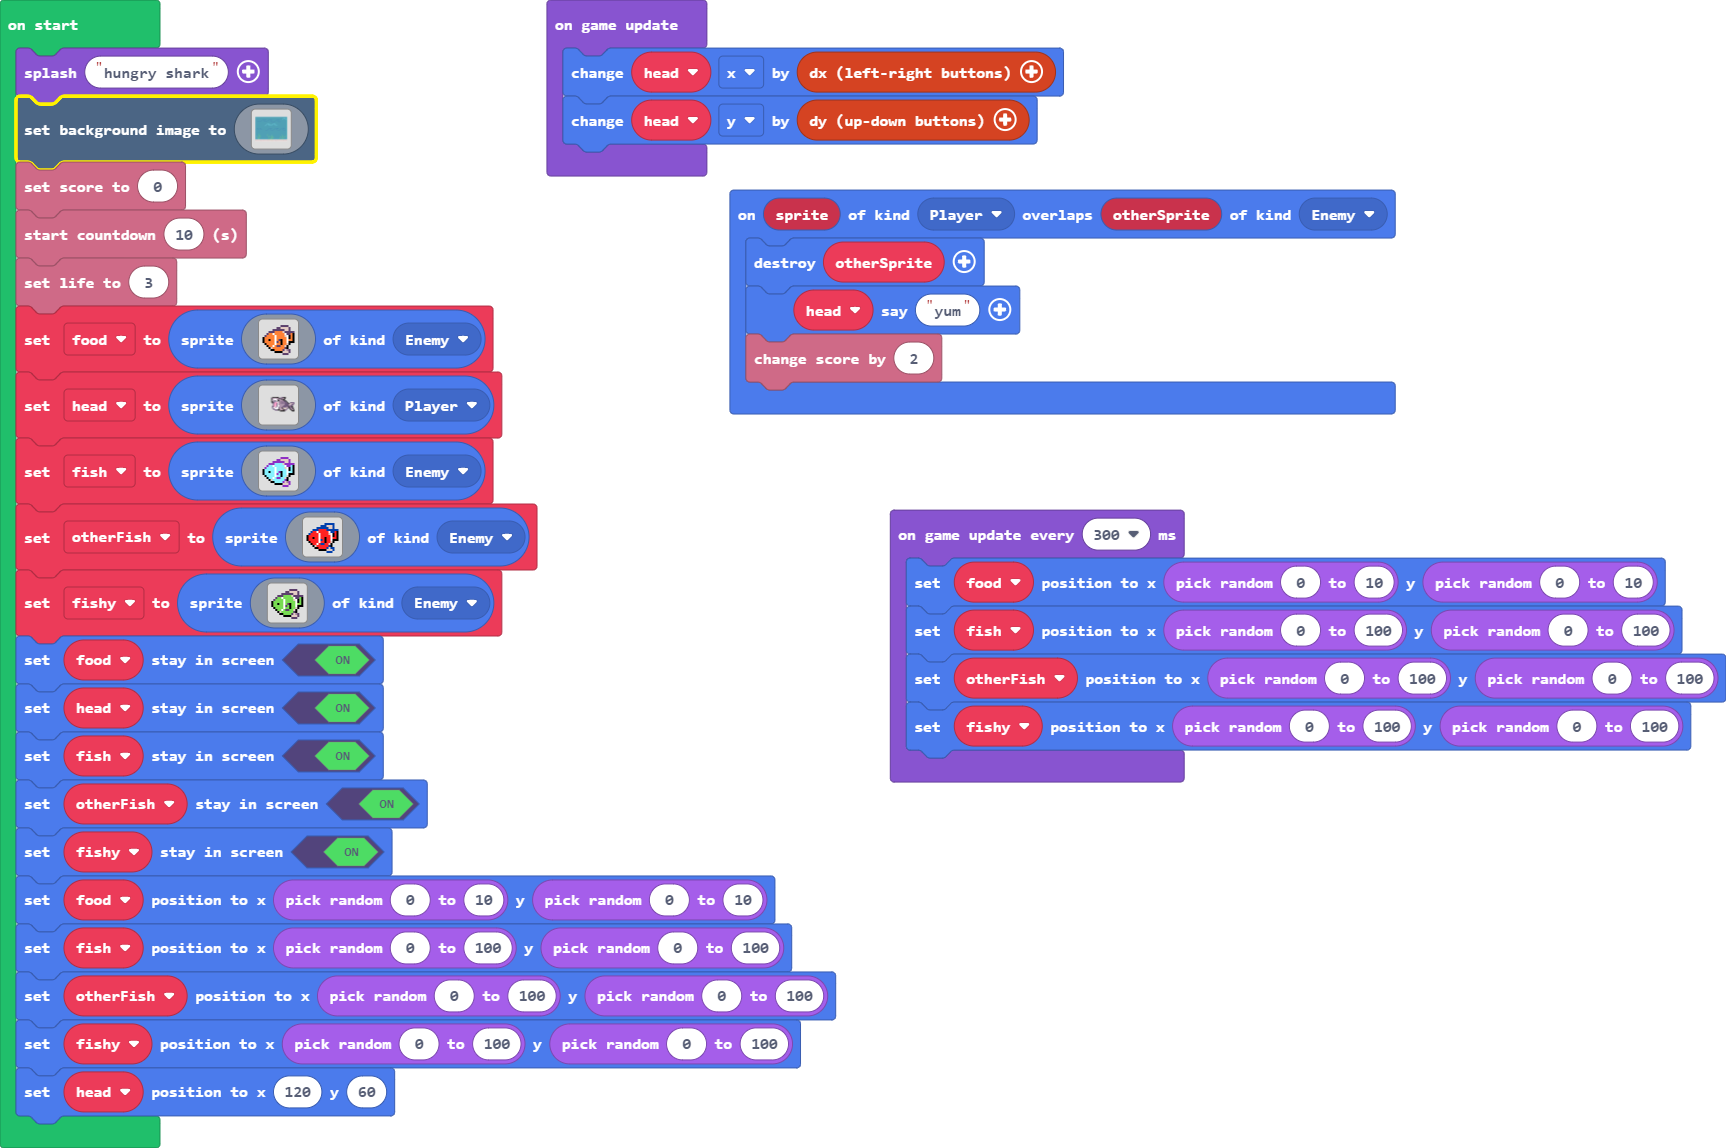
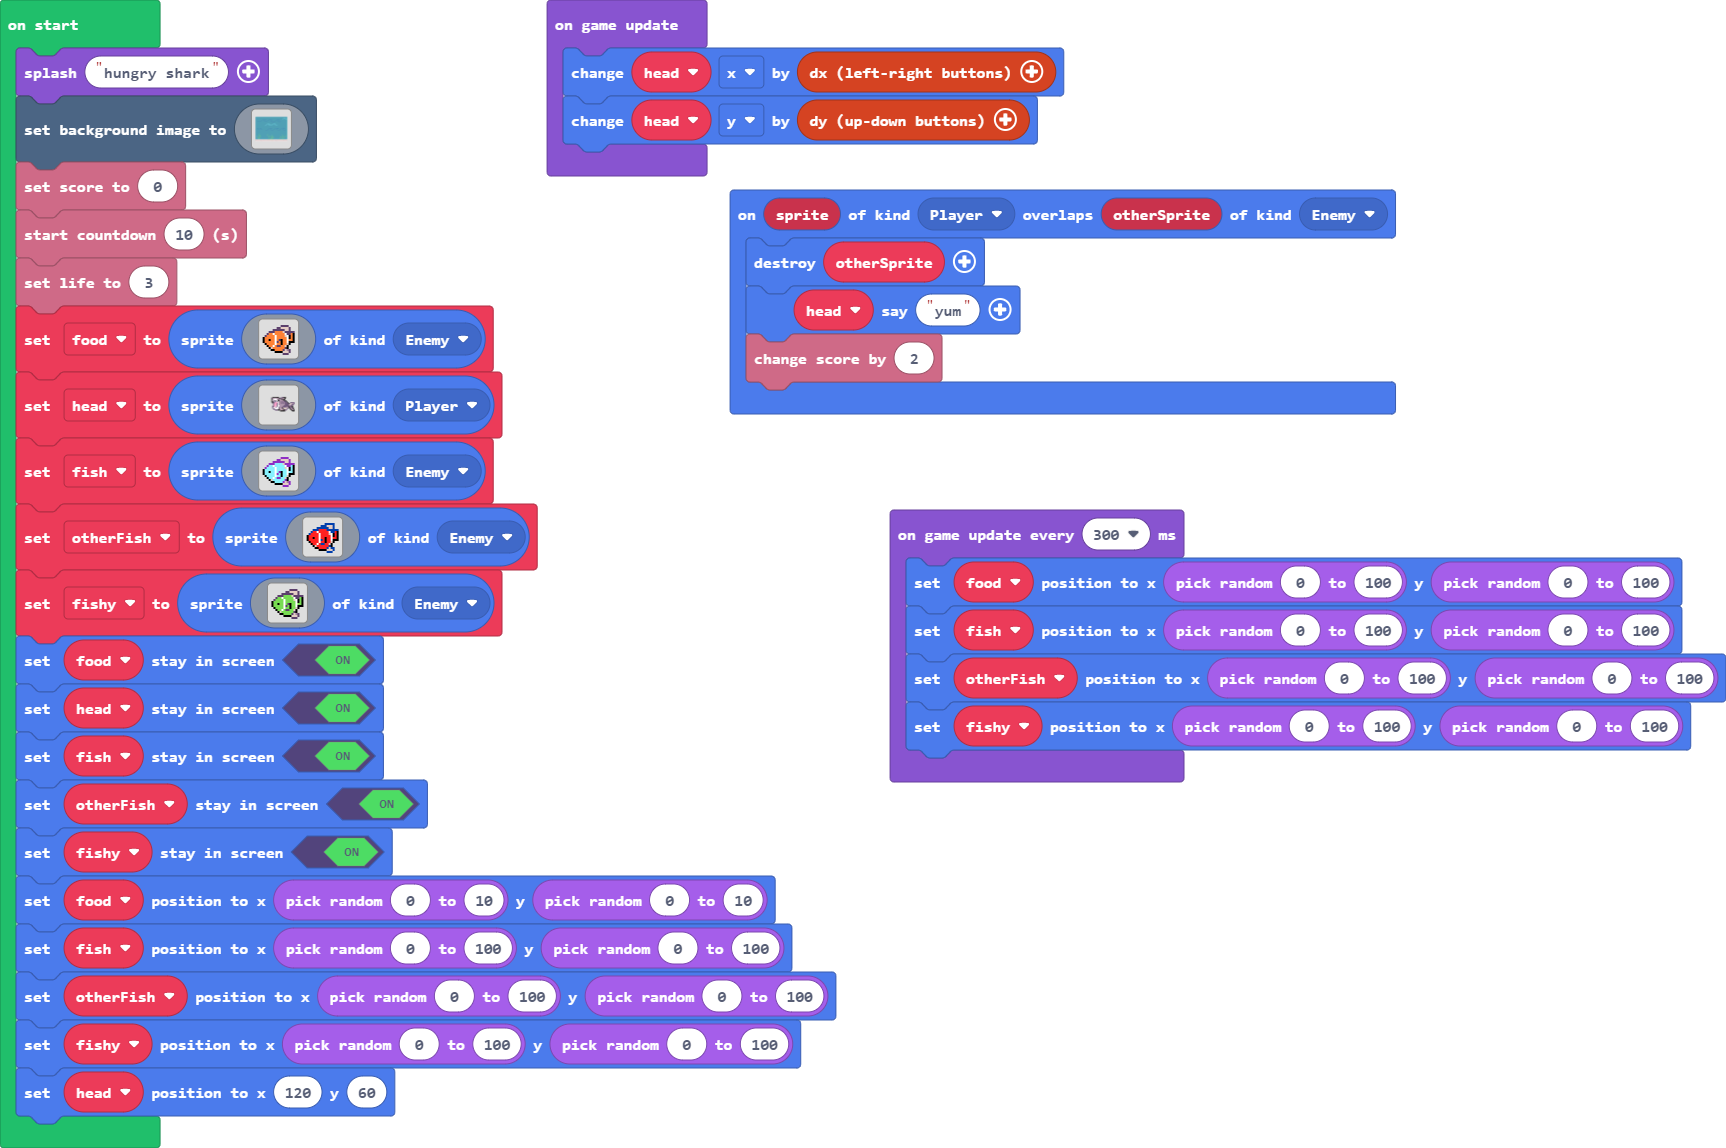
Update main.blocks, main.ts

diff --git a/main.ts b/main.ts
@@ -235,7 +235,7 @@ game.onUpdate(function () {
     head.y += controller.dy()
 })
 game.onUpdateInterval(300, function () {
-    food.setPosition(randint(0, 10), randint(0, 10))
+    food.setPosition(randint(0, 100), randint(0, 100))
     fish.setPosition(randint(0, 100), randint(0, 100))
     otherFish.setPosition(randint(0, 100), randint(0, 100))
     fishy.setPosition(randint(0, 100), randint(0, 100))
